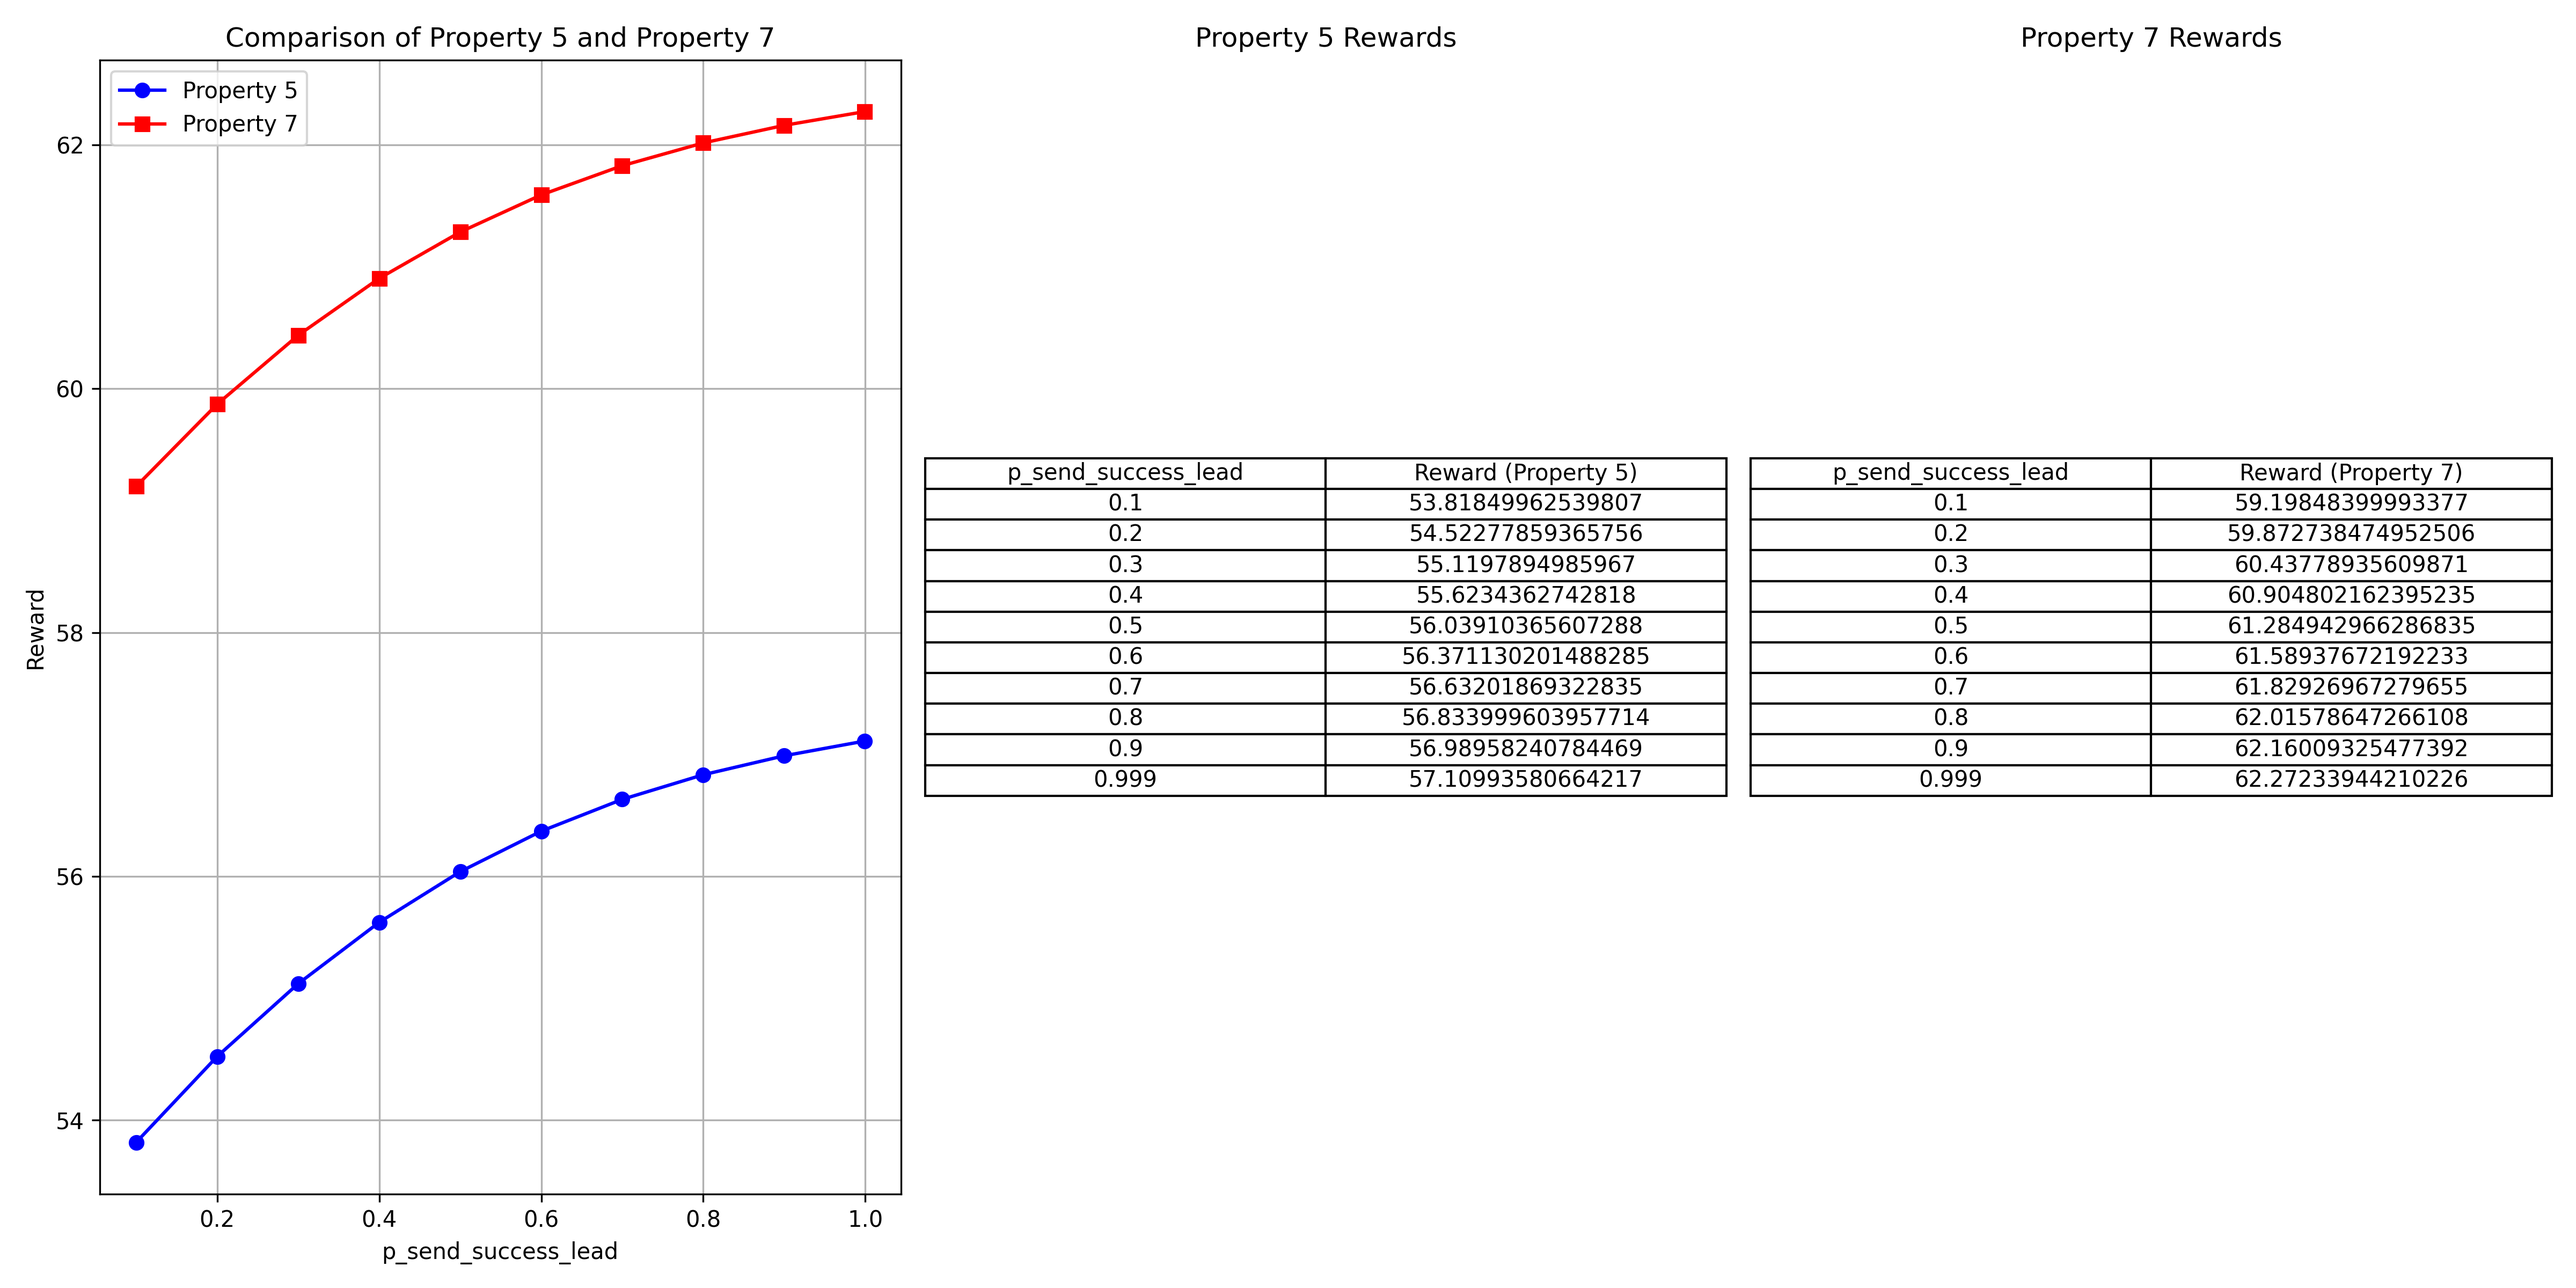
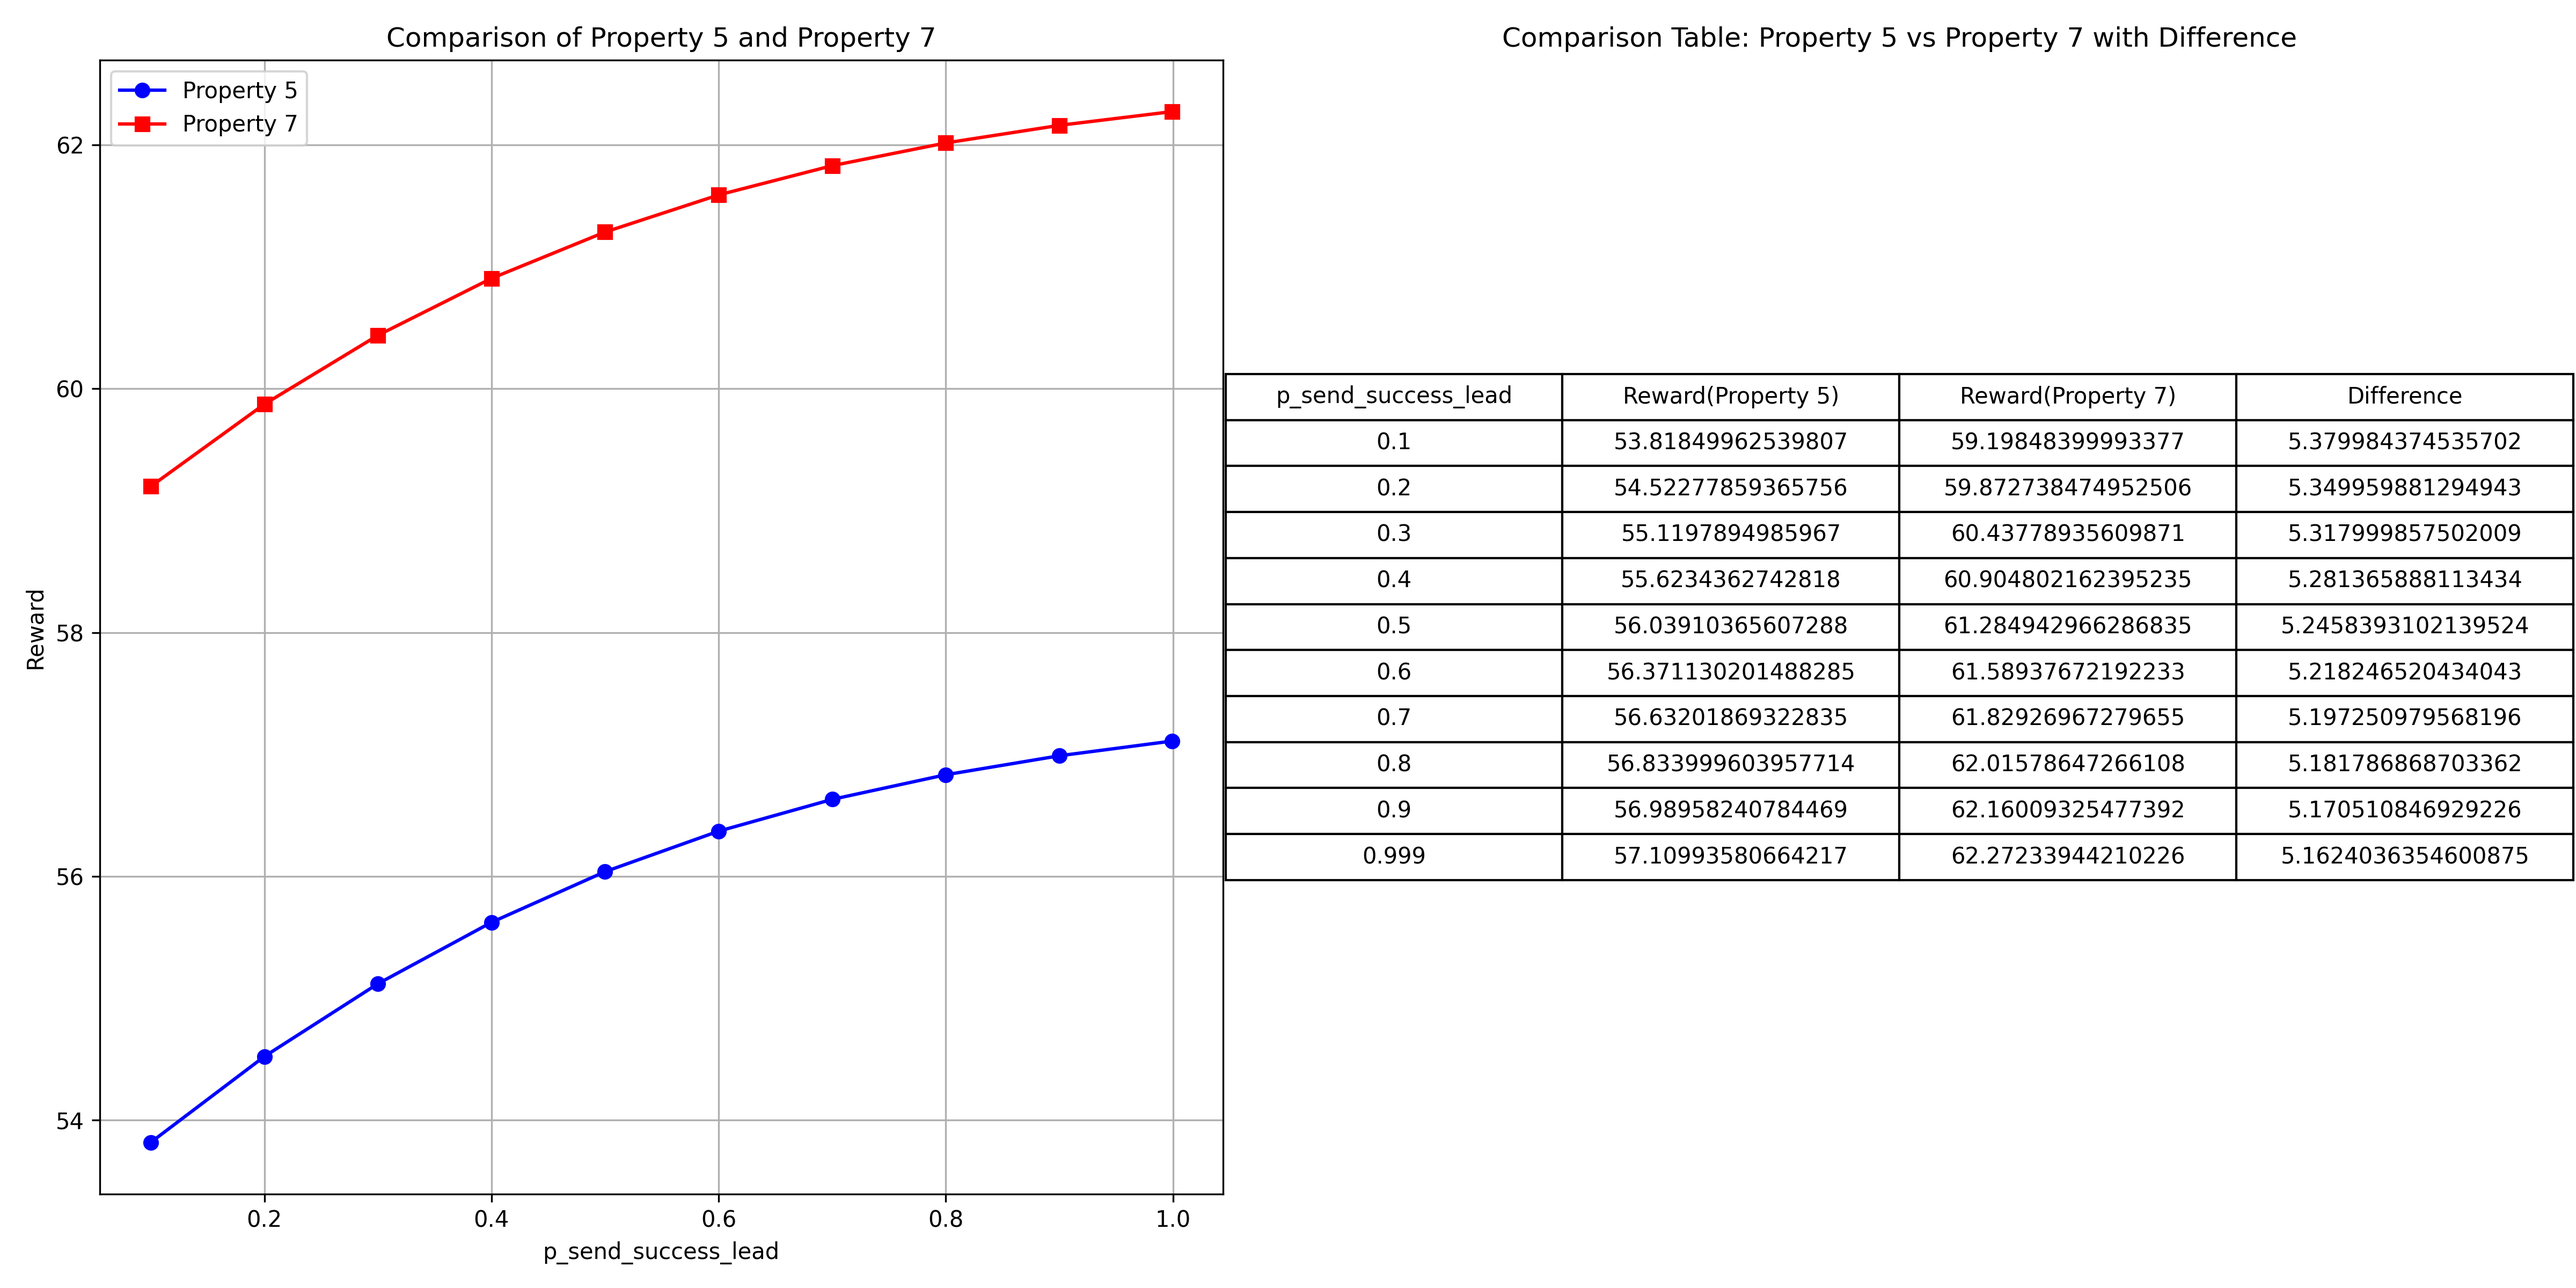
feat: new style of tables for result 3and 4

diff --git a/codes/code3.py b/codes/code3.py
@@ -13,7 +13,38 @@ def get_parameter(key_value):
     key, value = key_value
     return key.strip(), float(value.strip()) if "." in value else int(value.strip())
 
-
+def plot_comparison(data1, data2, group_label, property_label, title, output_file):
+    plt.figure(figsize=(16, 8))
+    plt.subplot(121)
+    plt.plot(data1['group'], data1['property'], marker='o', color='b', label='Property 5')
+    plt.plot(data2['group'], data2['property'], marker='x', color='r', label='Property 7')
+    plt.xlabel(group_label)
+    plt.ylabel(property_label)
+    plt.title(f"{title} (Graph)")
+    plt.grid(True)
+    plt.legend()
+    table_data = [( data1['group'][i],  # p_gas_detect 
+            data1['property'][i],  # Reward for Property 5
+            data2['property'][i],  # Reward for Property 7
+            data2['property'][i] - data1['property'][i]  # Difference
+            )  for i in range(len(data1['group']))
+    ]
+    plt.subplot(122)
+    plt.axis('off')
+    columns = [group_label, "Reward (Property 5)", "Reward (Property 7)", "Difference"]
+    table = plt.table(
+        cellText=table_data,
+        colLabels=columns,
+        loc='center',
+        cellLoc='center'
+    )
+    table.auto_set_font_size(False)
+    table.set_fontsize(10)  # Adjust font size
+    table.scale(1.2, 1.4)  # Adjust table scaling
+    plt.title("Comparison Table: Property 5 vs Property 7 with Difference")
+    plt.tight_layout()
+    plt.savefig(output_file, format='png', dpi=300)
+    plt.close()
 
 def check_values_line(line):
     """Parses a line from the cost file into a dictionary."""
@@ -48,32 +79,6 @@ def process_property_result(line, property_number, p_explore_success, result_dat
         property_7 = float(line.split(":")[1].strip())
         result_data['property_7'].append(property_7)
 
-def plot_comparison(data1, data2, group_label, property_label, title, output_file):
-
-    plt.figure(figsize=(12, 8))
-    # Plot Comparison
-    plt.subplot(121)
-    plt.plot(data1['group'], data1['property'], marker='o', color='b', label='property5')
-    plt.plot(data2['group'], data2['property'], marker='x', color='r', label='property7')
-    plt.xlabel(group_label)
-    plt.ylabel(property_label)
-    plt.title(f"{title} (Graph)")
-    plt.grid(True)
-    plt.legend()
-    # Table for Comparison
-    plt.subplot(122)
-    plt.axis('off')
-    columns = [group_label, "maxReward5", "maxReward7", "Difference"]
-    table_data = []
-    for g, p1, p2 in zip(data1['group'], data1['property'], data2['property']):
-        diff = round(abs(p1 - p2), 4)
-        table_data.append([g, p1, p2, diff])
-    plt.table(cellText=table_data, colLabels=columns, loc='center', cellLoc='center', fontsize=9)
-    ##plt.table.set_fontsize(9) 
-    plt.title(f"{title} (Table)")
-    plt.tight_layout()
-    plt.savefig(output_file, format='png', dpi=300)
-    plt.close()
 
 
 def plot_results(result_data, output_file):
@@ -137,4 +142,3 @@ plot_comparison(data1, data2, "p_gas_detect", "Max Reward", "Comparison of Prope
 output_file = "plots/plot_results3.png"
 plot_results(result_data, output_file)
 
-print("plot saved.")

diff --git a/codes/code4.py b/codes/code4.py
@@ -100,7 +100,7 @@ def plot_comparison_with_tables(result_data, output_file):
     plt.figure(figsize=(16, 8))
 
     # Plot comparison
-    plt.subplot(131)
+    plt.subplot(121)
     plt.plot(result_data['group'], result_data['property_5'], marker='o', color='b', label='Property 5')
     plt.plot(result_data['group'], result_data['property_7'], marker='s', color='r', label='Property 7')
     plt.xlabel('p_send_success_lead')
@@ -109,26 +109,31 @@ def plot_comparison_with_tables(result_data, output_file):
     plt.grid(True)
     plt.legend()
 
-    # Table for Property 5
-    plt.subplot(132)
+    # Combined table for Property 5, Property 7, and Difference
+    plt.subplot(122)
     plt.axis('off')
-    table_columns_5 = ["p_send_success_lead", "Reward (Property 5)"]
-    table_data_5 = list(zip(result_data['group'], result_data['property_5']))
-    table_5 = plt.table(cellText=table_data_5, colLabels=table_columns_5, loc='center', cellLoc='center')
-    table_5.auto_set_font_size(False)
-    table_5.set_fontsize(10)
-    plt.title("Property 5 Rewards")
 
-    # Table for Property 7
-    plt.subplot(133)
-    plt.axis('off')
-    table_columns_7 = ["p_send_success_lead", "Reward (Property 7)"]
-    table_data_7 = list(zip(result_data['group'], result_data['property_7']))
-    table_7 = plt.table(cellText=table_data_7, colLabels=table_columns_7, loc='center', cellLoc='center')
-    table_7.auto_set_font_size(False)
-    table_7.set_fontsize(10)
-    plt.title("Property 7 Rewards")
+    table_columns = ["p_send_success_lead", "Reward(Property 5)", "Reward(Property 7)", "Difference"]
+    table_data = [
+        (
+            result_data['group'][i],
+            result_data['property_5'][i],
+            result_data['property_7'][i],
+            result_data['property_7'][i] - result_data['property_5'][i]
+        )
+        for i in range(len(result_data['group']))
+    ]
 
+    table = plt.table(
+        cellText=table_data,
+        colLabels=table_columns,
+        loc='center',
+        cellLoc='center'
+    )
+    table.auto_set_font_size(False)
+    table.set_fontsize(10)  # Adjust font size
+    table.scale(1.2, 1.4)  # Adjust table scaling
+    plt.title("Comparison Table: Property 5 vs Property 7 with Difference")
     plt.tight_layout()
     plt.savefig(output_file, format='png', dpi=300)
     plt.close()
